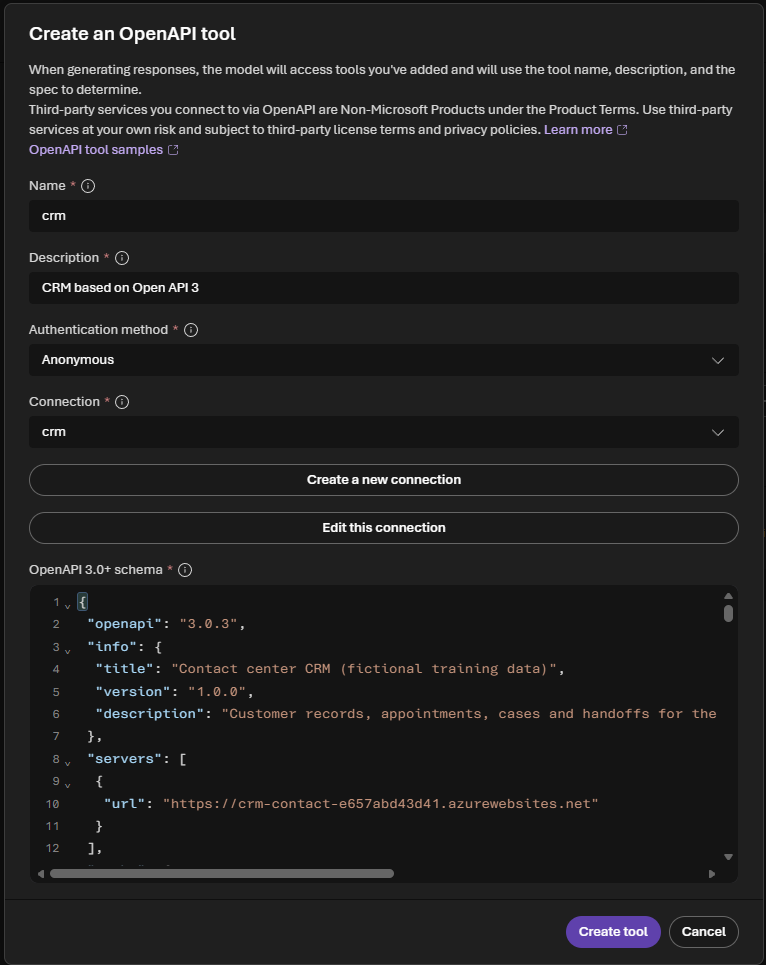
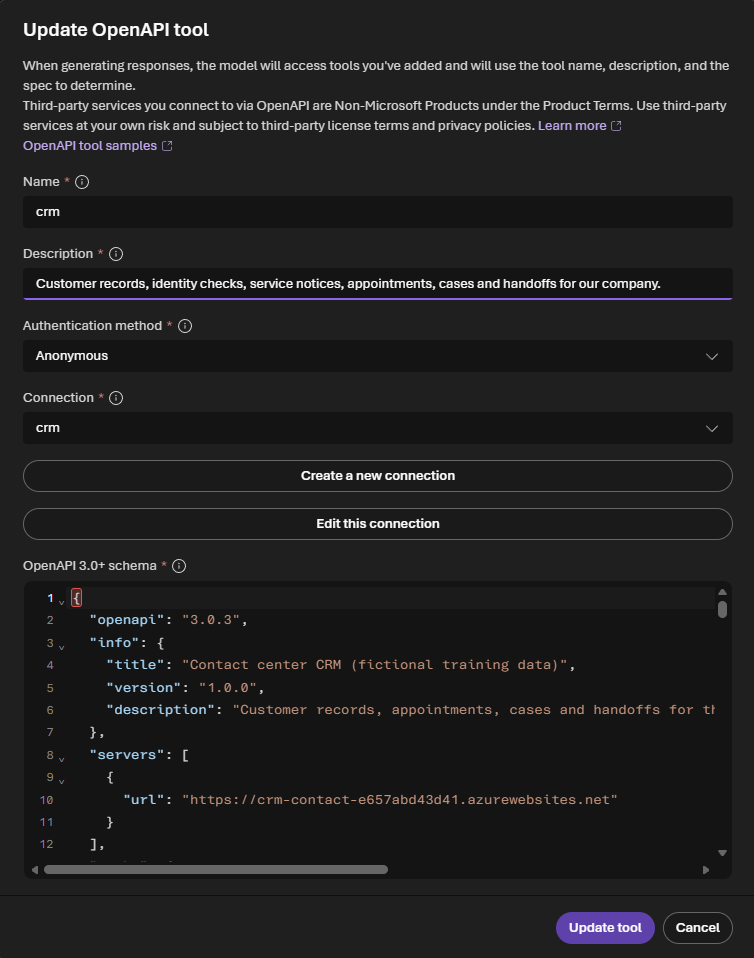
Contact Center: Challenge 3 CRM connection form and updated OpenAPI tool screenshot

diff --git a/03-Azure/01-04-AI/12_Contact_Center/challenges/challenge-03.md b/03-Azure/01-04-AI/12_Contact_Center/challenges/challenge-03.md
@@ -38,12 +38,17 @@ Voice agents take tools from a **toolbox**: a named, versioned set of tools in y
    - **Name:** `crm`
    - **Description:** *Customer records, identity checks, service notices, appointments, cases and handoffs for our company.* The model reads this to decide when to use the tool, so make it specific.
    - **Authentication method:** **Anonymous**. The CRM holds only fictional training data.
-   - **Connection:** select **Create a new connection**, name it `crm` and use your `CrmUrl` as the endpoint.
+   - **Connection:** select **Create a new connection**. Set **Connection name** `crm`, **Authentication type** **Anonymous** and **Target URL** your `CrmUrl`, then **Create connection**.
+
+     ![Create OpenAPI connection: name crm, Anonymous, Target URL set to the CRM](../images/challenge-03-crm-connection.png)
+
    - **OpenAPI 3.0+ schema:** paste the whole content of `<CrmUrl>/openapi.json`. Its `servers` entry already points at your CRM.
 
    Select **Create tool**, then **Create** to save the toolbox.
 
-   ![Create an OpenAPI tool: name crm, Anonymous authentication, the crm connection and the pasted schema](../images/challenge-03-openapi-tool.png)
+   ![The OpenAPI tool: name crm, a specific description, Anonymous authentication, the crm connection and the pasted schema](../images/challenge-03-openapi-tool.png)
+
+   To change the tool later, open the toolbox, select the tool and use **Update tool**. Saving the toolbox creates a new version: select that version on each agent that uses it.
 
 4. Open `contact-voice-agent`. Under **Tools**, select **Add a toolbox** and choose `CRMTools`. The agent now lists `toolbox_search` and `crm`.
 
